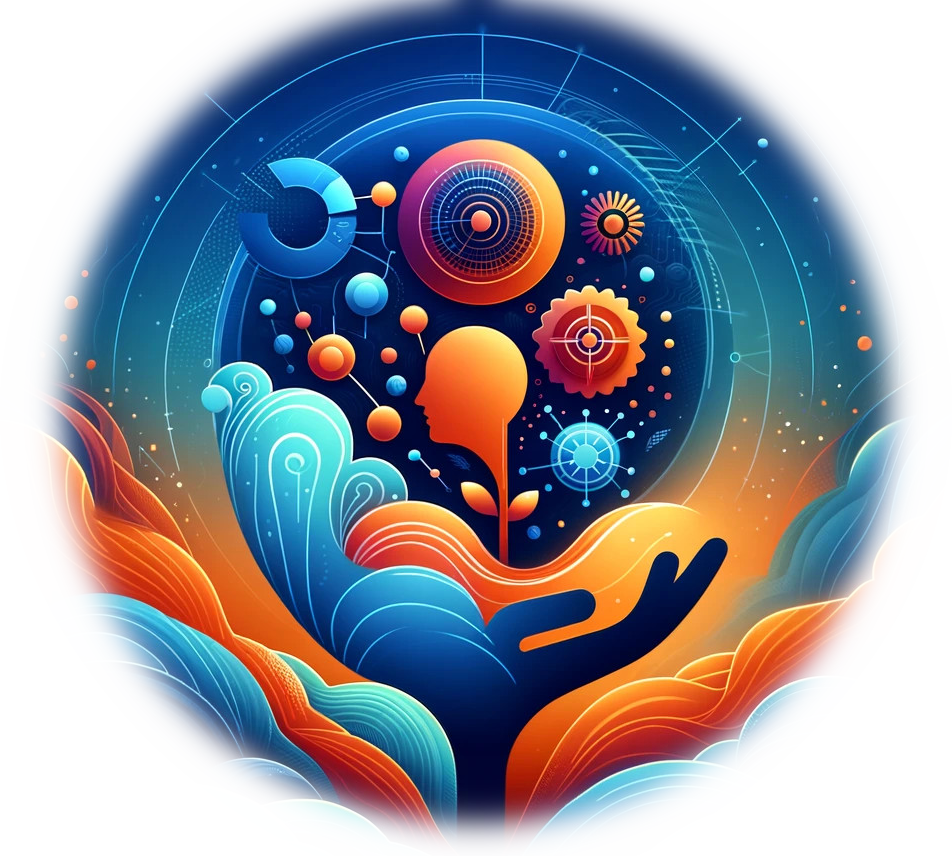
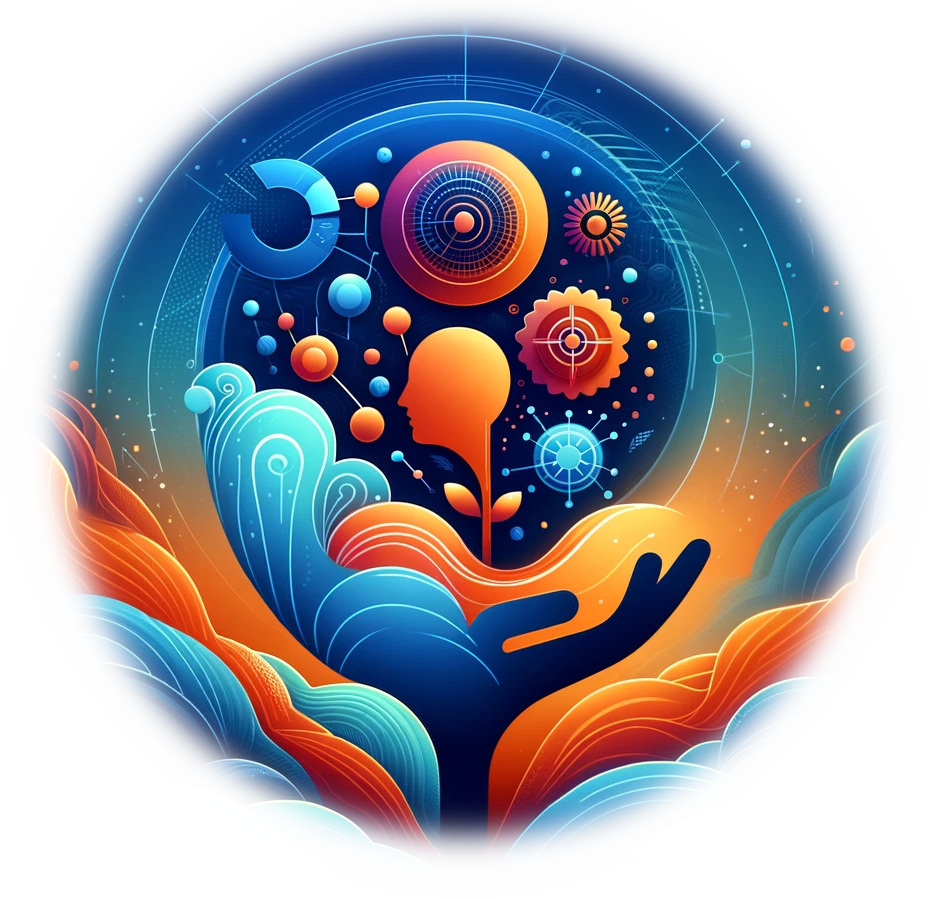
profile pic

diff --git a/index.html b/index.html
@@ -36,8 +36,7 @@
                         profound expertise in driving talent development, change management, and 
                         cultural transformation initiatives. Dedicated to fostering an environment 
                         of continuous learning and adaptation, aligning with Lockheed Martin's 
-                        commitment to excellence and innovation in talent strategies.
-                  </p>
+                        commitment to excellence and innovation in talent strategies.</p>
 
                   <div class="social-icons">
                         <a href="https://linkedin.com/in/billiamstewartrodriguez"><i class='bx bxl-linkedin'></i></a>
@@ -53,7 +52,7 @@
                   </div>
             </div>
                   <div class="home-img">
-                        <img src="image.jpeg" alt="">
+                        <img src="profile-pic.png" alt="">
                   </div>
             
       </section>
@@ -403,28 +402,63 @@
 
                   <div class="wrapper">
                         <div class="skill-item">
-                              <img src="man1.jpg" alt="">
+                              <img src="proglang.png" alt="" width="400" height="400">
                               <h2>Programing Languages</h2>
-                              <p>Lorem ipsum dolor, sit amet consectetur adipisicing elit. Voluptas, 
-                        alias eum esse nostrum, consequuntur nihil voluptates quis cupiditate, minus corporis quibusdam 
-                              tempora iusto dolorem! Nihil quae debitis voluptatem sed recusandae.</p>
+                              <div>
+                                    <ul>
+                                        <li>Python (Pandas, NumPy, jQuery, VisiData)</li>
+                                        <li>C#</li>
+                                        <li>C/C++</li>
+                                        <li>R</li>
+                                        <li>SQL</li>
+                                        <li>PERL</li>
+                                        <li>HTML</li>
+                                        <li>CSS</li>
+                                        <li>JavaScript</li>
+                                        <li>PowerShell</li>
+                                        <li>Bash</li>
+                                        <li>Git</li>
+                                    </ul>
+                                </div>
                         </div>
 
 
                         <div class="skill-item">
-                              <img src="man3.jpg" alt="">
+                              <img src="software.png" alt="" width="400" height="400">
                               <h2>Software</h2>
-                              <p>Lorem ipsum dolor, sit amet consectetur adipisicing elit. Voluptas, 
-                        alias eum esse nostrum, consequuntur nihil voluptates quis cupiditate, minus corporis quibusdam 
-                              tempora iusto dolorem! Nihil quae debitis voluptatem sed recusandae.</p>
+                              <div>
+                                    <ul>
+                                          <li>Microsoft Office Suite</li>
+                                          <li>Visual Studio</li>
+                                          <li>Tableau</li>
+                                          <li>Power BI</li>
+                                          <li>GitHub</li>
+                                          <li>MacOS</li>
+                                          <li>Windows</li>
+                                          <li>Linux</li>
+                                    </ul>
+                                </div>
                         </div>
 
                         <div class="skill-item">
-                              <img src="man4.jpg" alt="">
+                              <img src="softskills.png" alt="" width="400" height="400">
                               <h2>Soft</h2>
-                              <p>Lorem ipsum dolor, sit amet consectetur adipisicing elit. Voluptas, 
-                        alias eum esse nostrum, consequuntur nihil voluptates quis cupiditate, minus corporis quibusdam 
-                              tempora iusto dolorem! Nihil quae debitis voluptatem sed recusandae.</p>
+                              <div>
+                                    <ul>
+                                          <li>Problem-Solving</li>
+                                          <li>Decision-Making</li>
+                                          <li>Critical Thinking</li>
+                                          <li>Time Management</li>
+                                          <li>Strategic Vision</li>
+                                          <li>Adaptability to Change</li>
+                                          <li>Leadership</li>
+                                          <li>Empathy & Support</li>
+                                          <li>Active Listening</li>
+                                          <li>Strategic Planning</li>
+                                          <li>Teamwork Collaboration</li>
+                                          <li>Communication</li>
+                                    </ul>
+                                </div>
                         </div>
 
                   </div>
@@ -455,37 +489,28 @@
       </section>
 <footer class="footer">
       <div class="social">
-            <a href="#"><i class='bx bxl-linkedin'></i></a>
-                        <a href="#"><i class='bx bxl-github'></i></a>
-                        <a href="#"><i class='bx bxl-instagram-alt'></i></a>
-                        <a href="#"><i class='bx bxl-twitter'></i></a>
-                        <a href="#"><i class='bx bxl-facebook-circle'></i></a>
+            <a href="https://linkedin.com/in/billiamstewartrodriguez"><i class='bx bxl-linkedin'></i></a>
+            <a href="https://github.com/BillStewRod"><i class='bx bxl-github'></i></a>
+            <a href="https://instagram.com/djcalanco"><i class='bx bxl-instagram-alt'></i></a>
+            <a href="https://x.com/djcalanco?s=21"><i class='bx bxl-twitter'></i></a>
+            <a href="https://facebook.com/djcalanco"><i class='bx bxl-facebook-circle'></i></a>
       </div>
       <ul class="list">
             <li>
-                  <a href="#">FAQ</a>
+                  <a href="#">Home</a>
             </li>
 
             <li>
-                  <a href="#">Services</a>
+                  <a href="https://profiles.datawars.io/djcalanco">DataWars</a>
             </li>
 
             <li>
-                  <a href="#">About Me</a>
+                  <a href="https://www.freecodecamp.org/BillyTheGreat">FreeCodeCamp</a>
             </li>
-
-            <li>
-                  <a href="#">Contact</a>
-            </li>
-
-            <li>
-                  <a href="#">Reviews</a>
-            </li>
-
       </ul>
 
       <p class="copyright">
-            &copy Alex Tim | All Right Reserved
+            &copy Billiam Stewart Rodriguez | All Right Reserved
       </p>
 </footer>
       

diff --git a/style.css b/style.css
@@ -461,7 +461,7 @@ span{
       line-height: 2;
 }
 
-.two-columns ul  {
+.two-columns ul, p {
       column-count: 2;
       font-size: 1.6rem;
       font-weight: 600;
@@ -530,9 +530,10 @@ span{
       font-size: 2.8rem;
 }
 
-.skill-item p{
-      font-size: 1.3rem;
-}
+.skill-item ul {
+      font-size: 2rem;
+      list-style-type: none;
+  }
 
 #star{
       color: gold;
